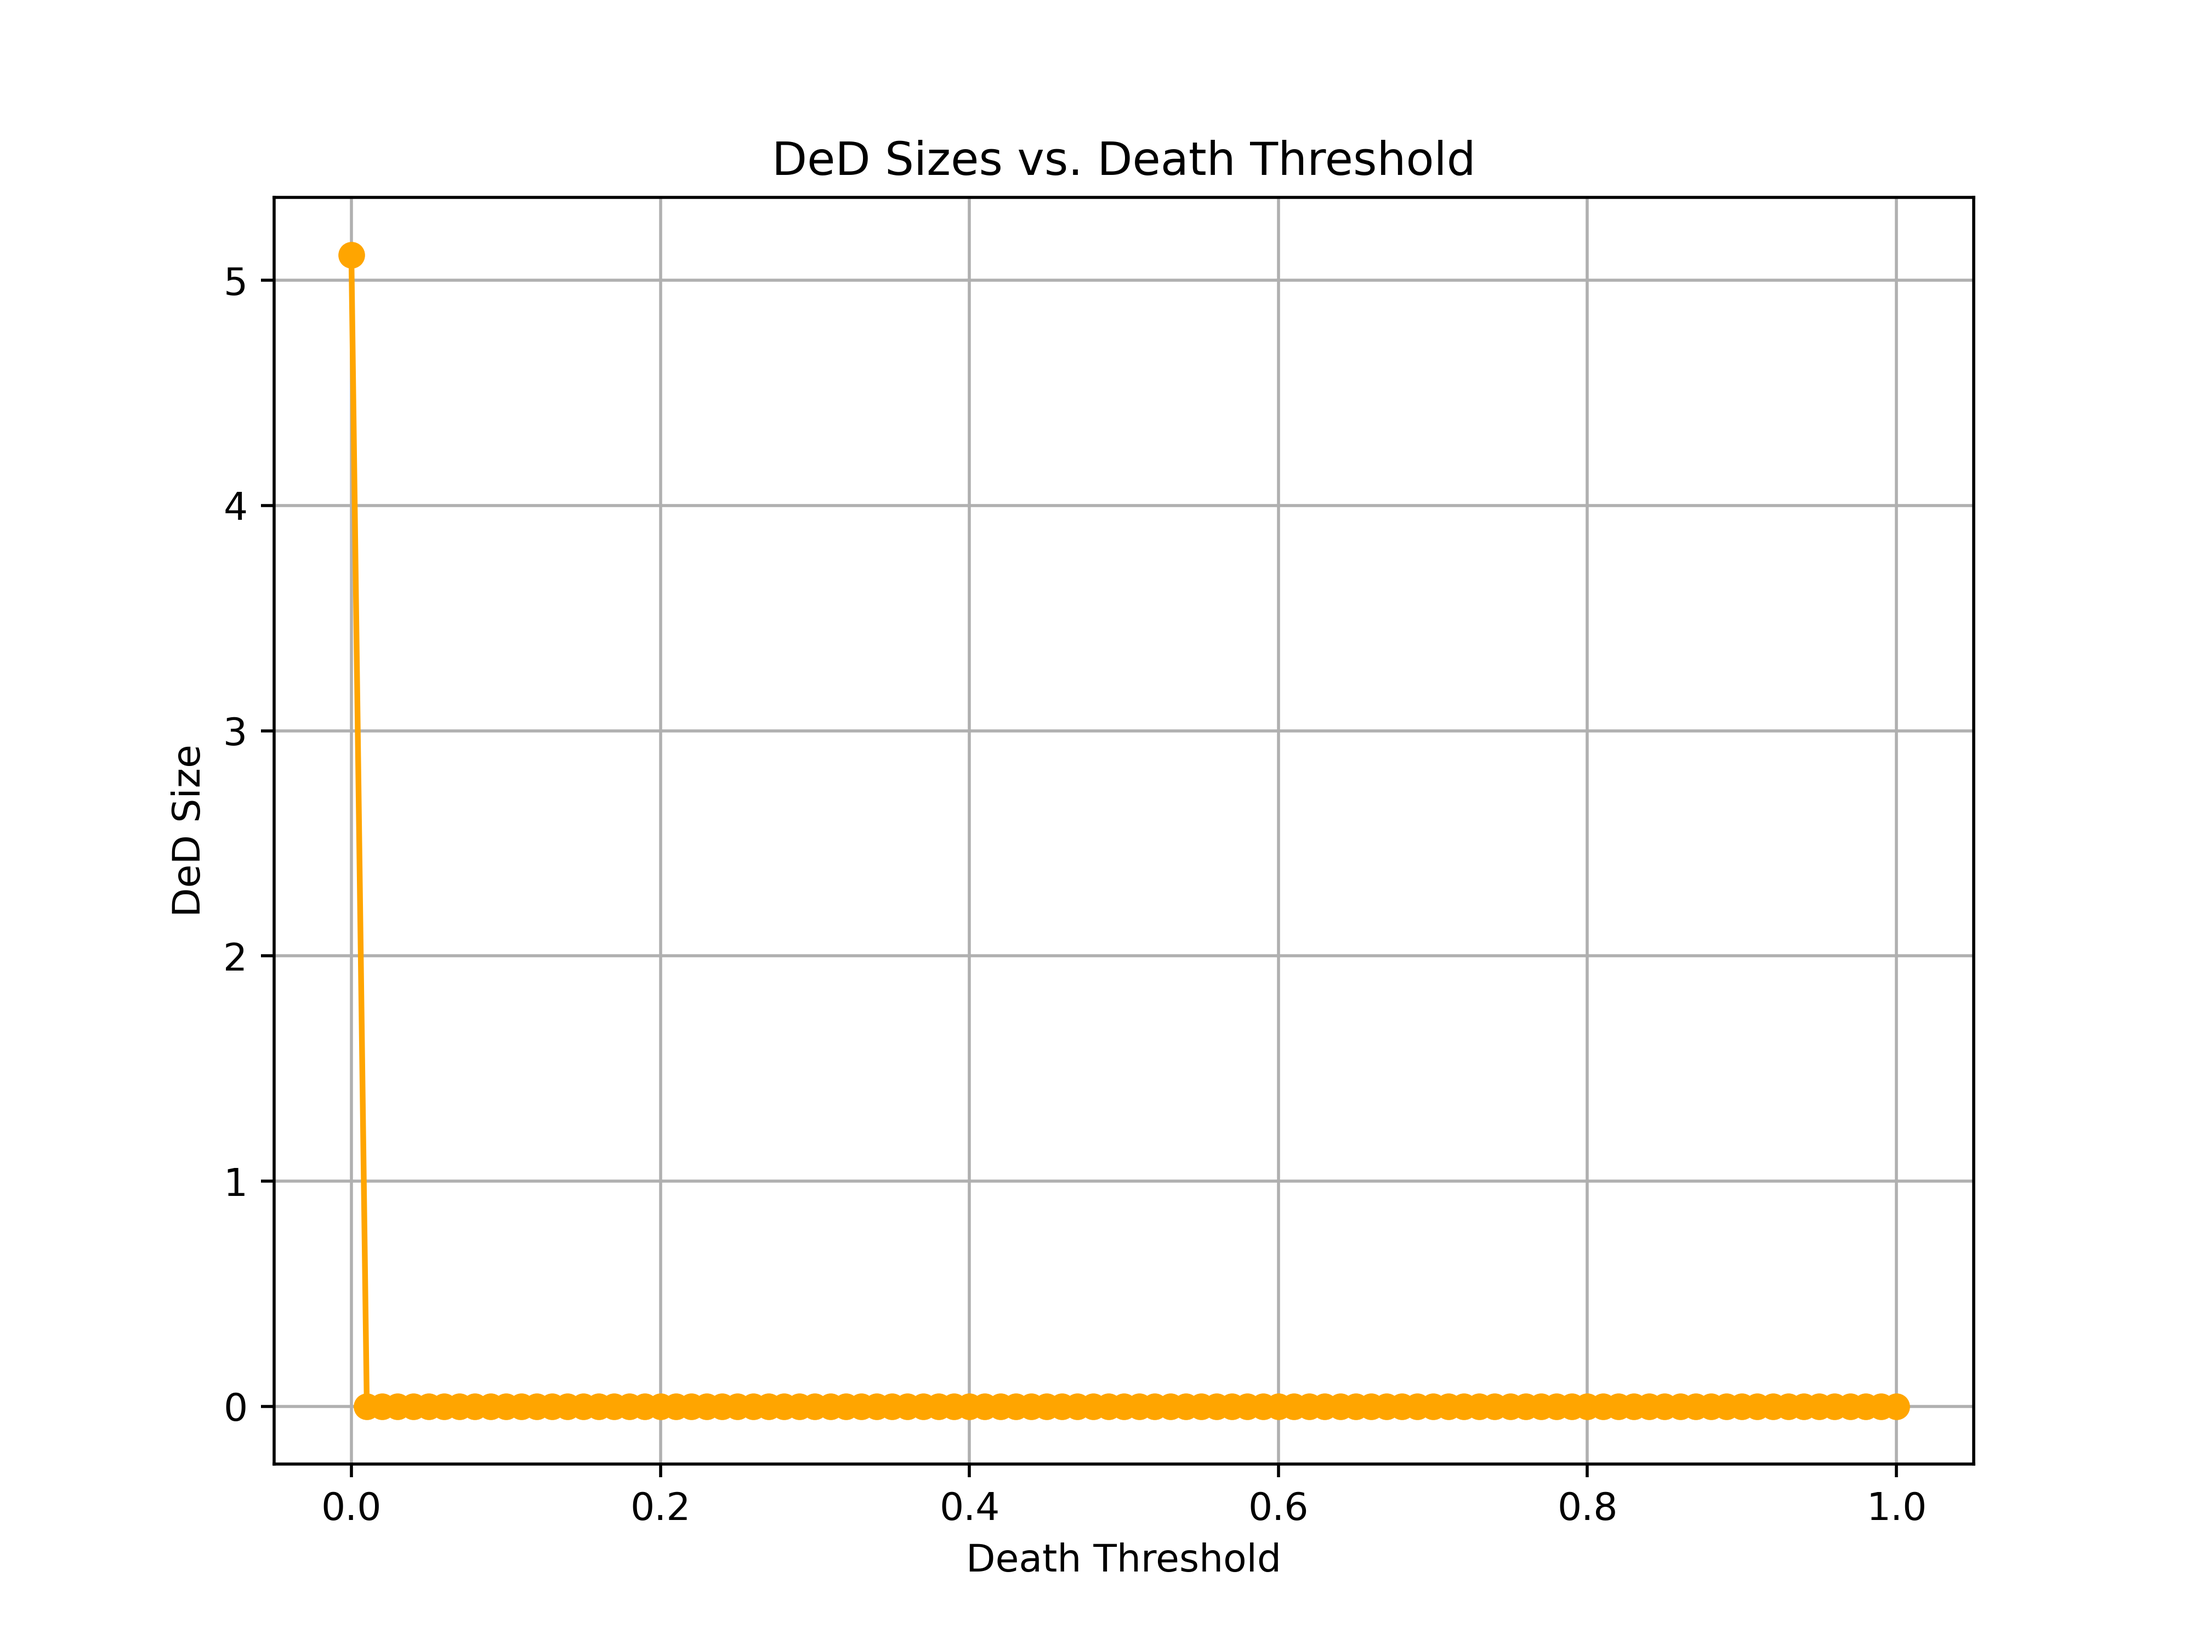
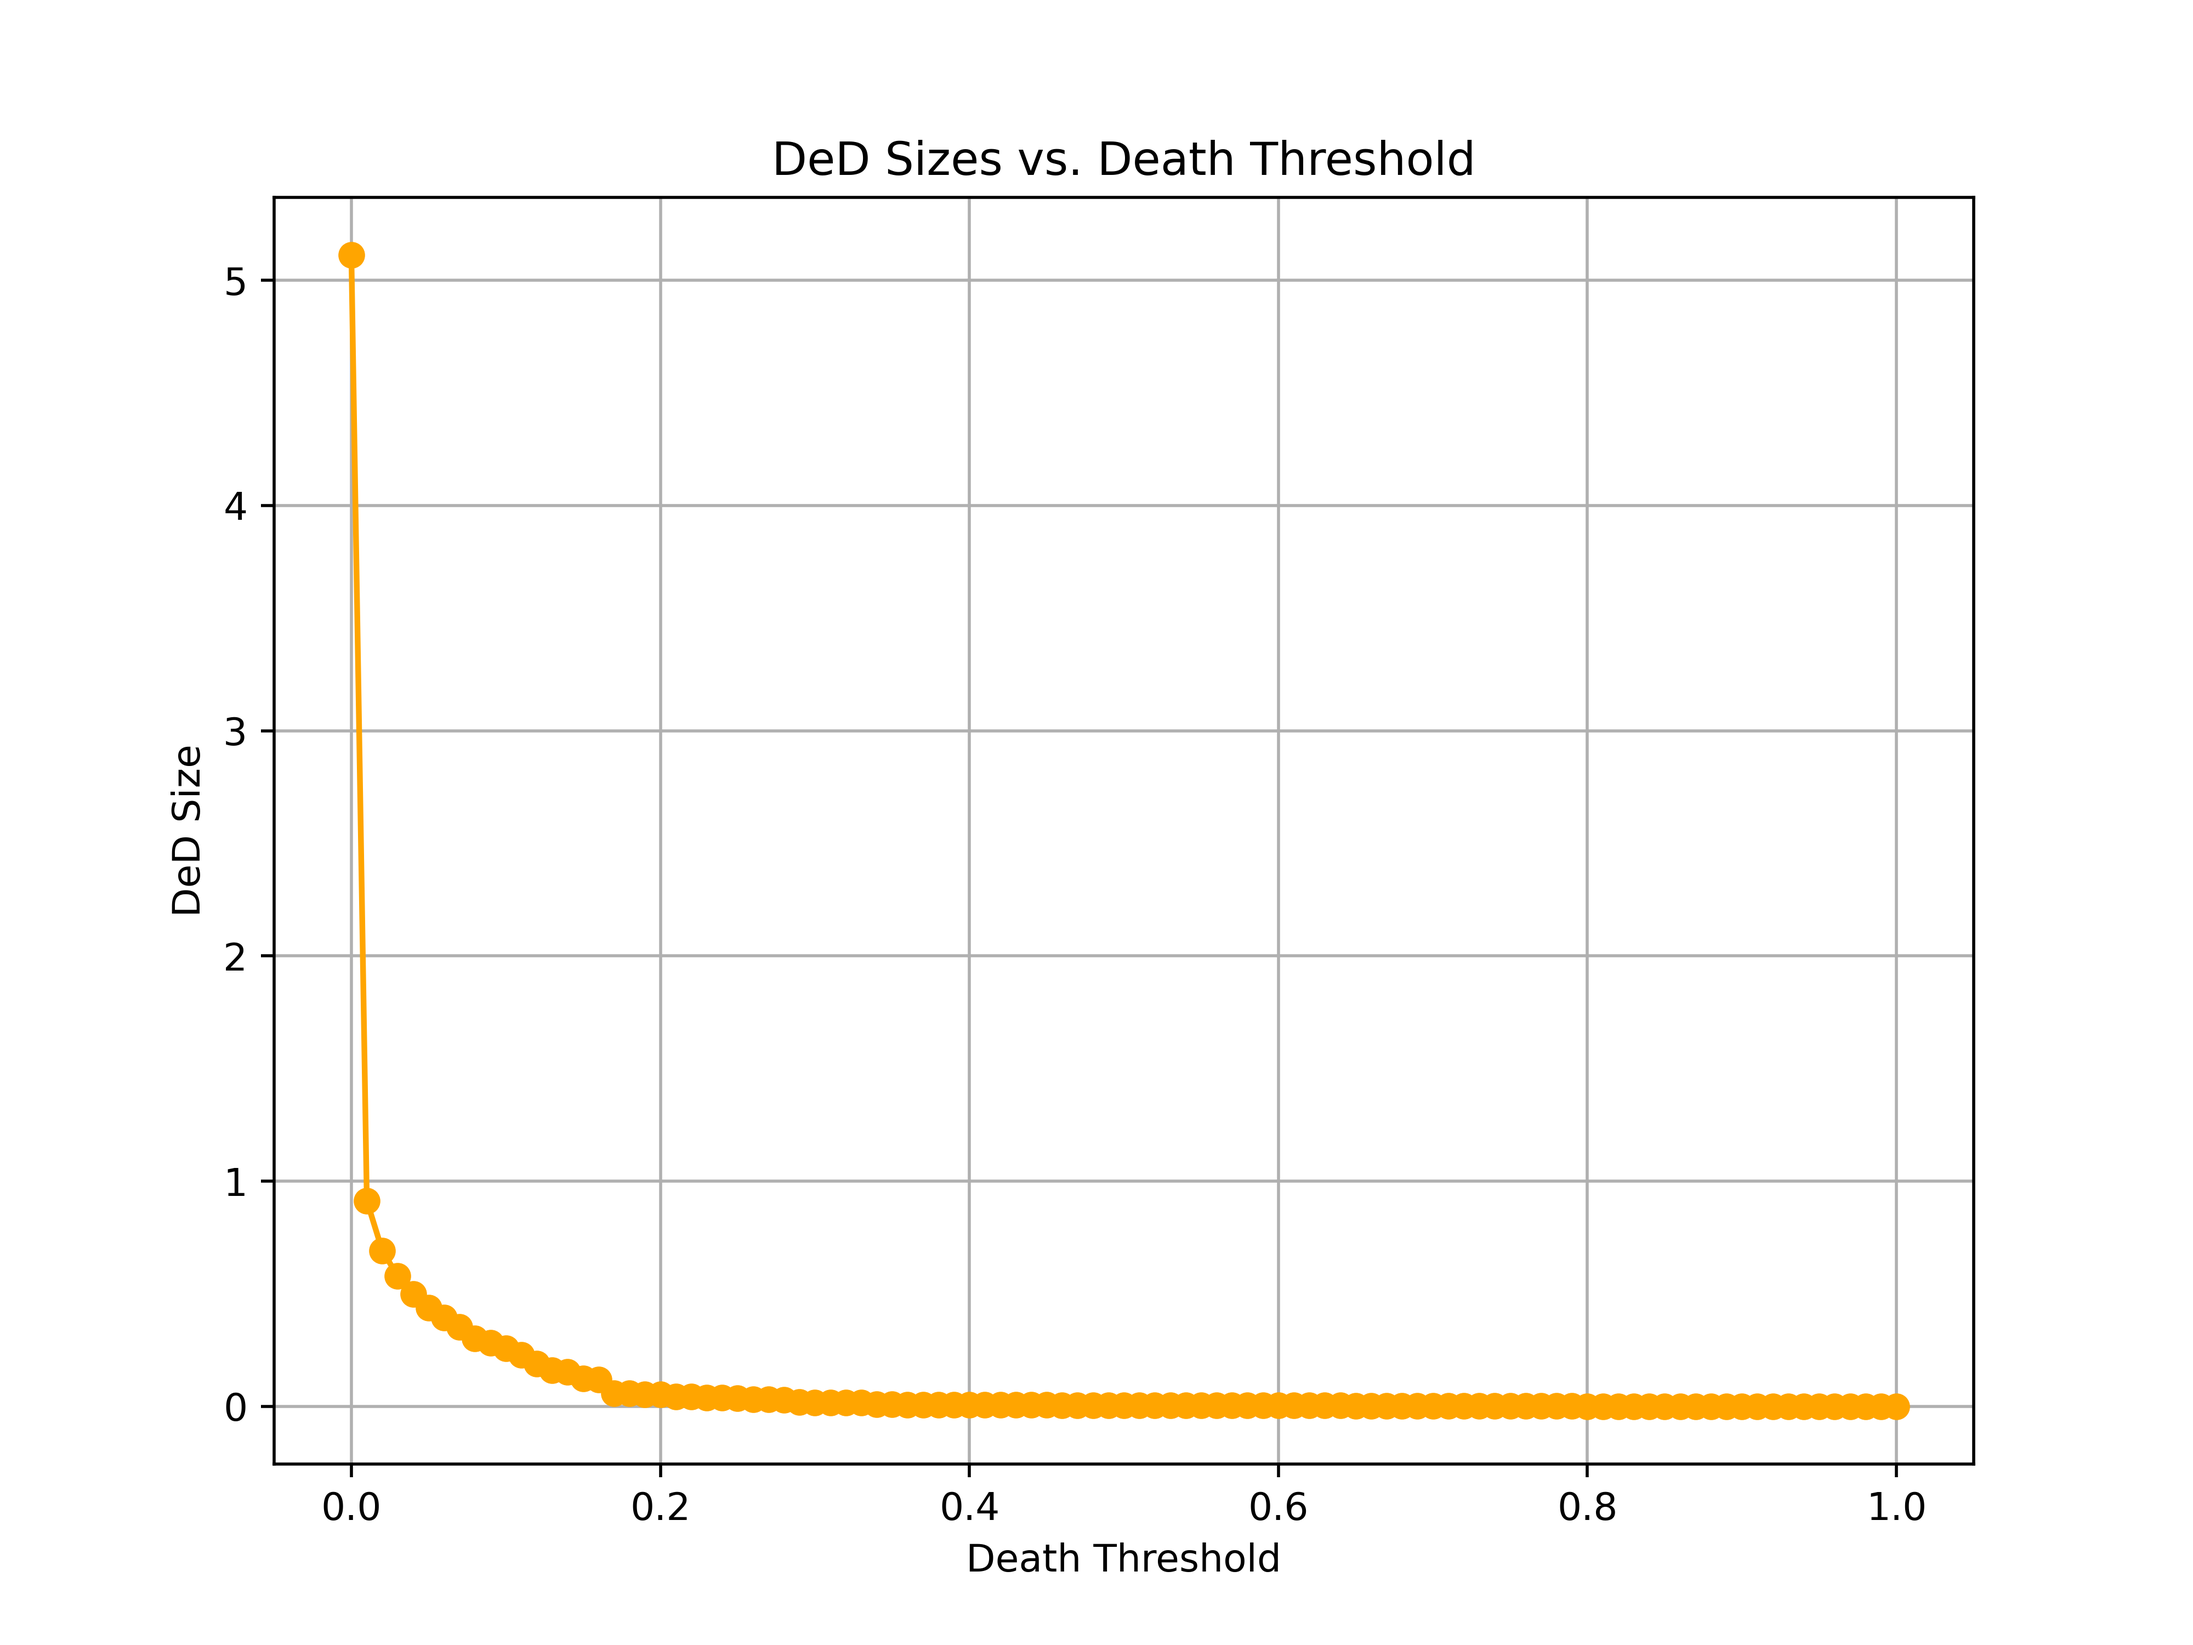
bug fix in ded size calculation (ded still extremely small)

Changed region(s): [[0.1562, 0.713, 0.4062, 0.868]]

diff --git a/mimic_sepsis/svp_ded_consistency.py b/mimic_sepsis/svp_ded_consistency.py
@@ -320,7 +320,7 @@ if __name__ == "__main__":
         for j, death_threshold in enumerate(death_thresholds):
             pi_ded_deadend = ded_deadend(Q_ded_deadend, nS, nA, SA_mask.values, threshold=death_threshold)
             avg_size_ded_deadend = np.mean(np.sum(pi_ded_deadend, axis=1))
-            if j == 0:
+            if i == 0:
                 ded_sizes[j] = avg_size_ded_deadend
 
             conflict_fraction = compute_conflict_fraction(pi_svp, pi_ded_deadend, nS, nA)
